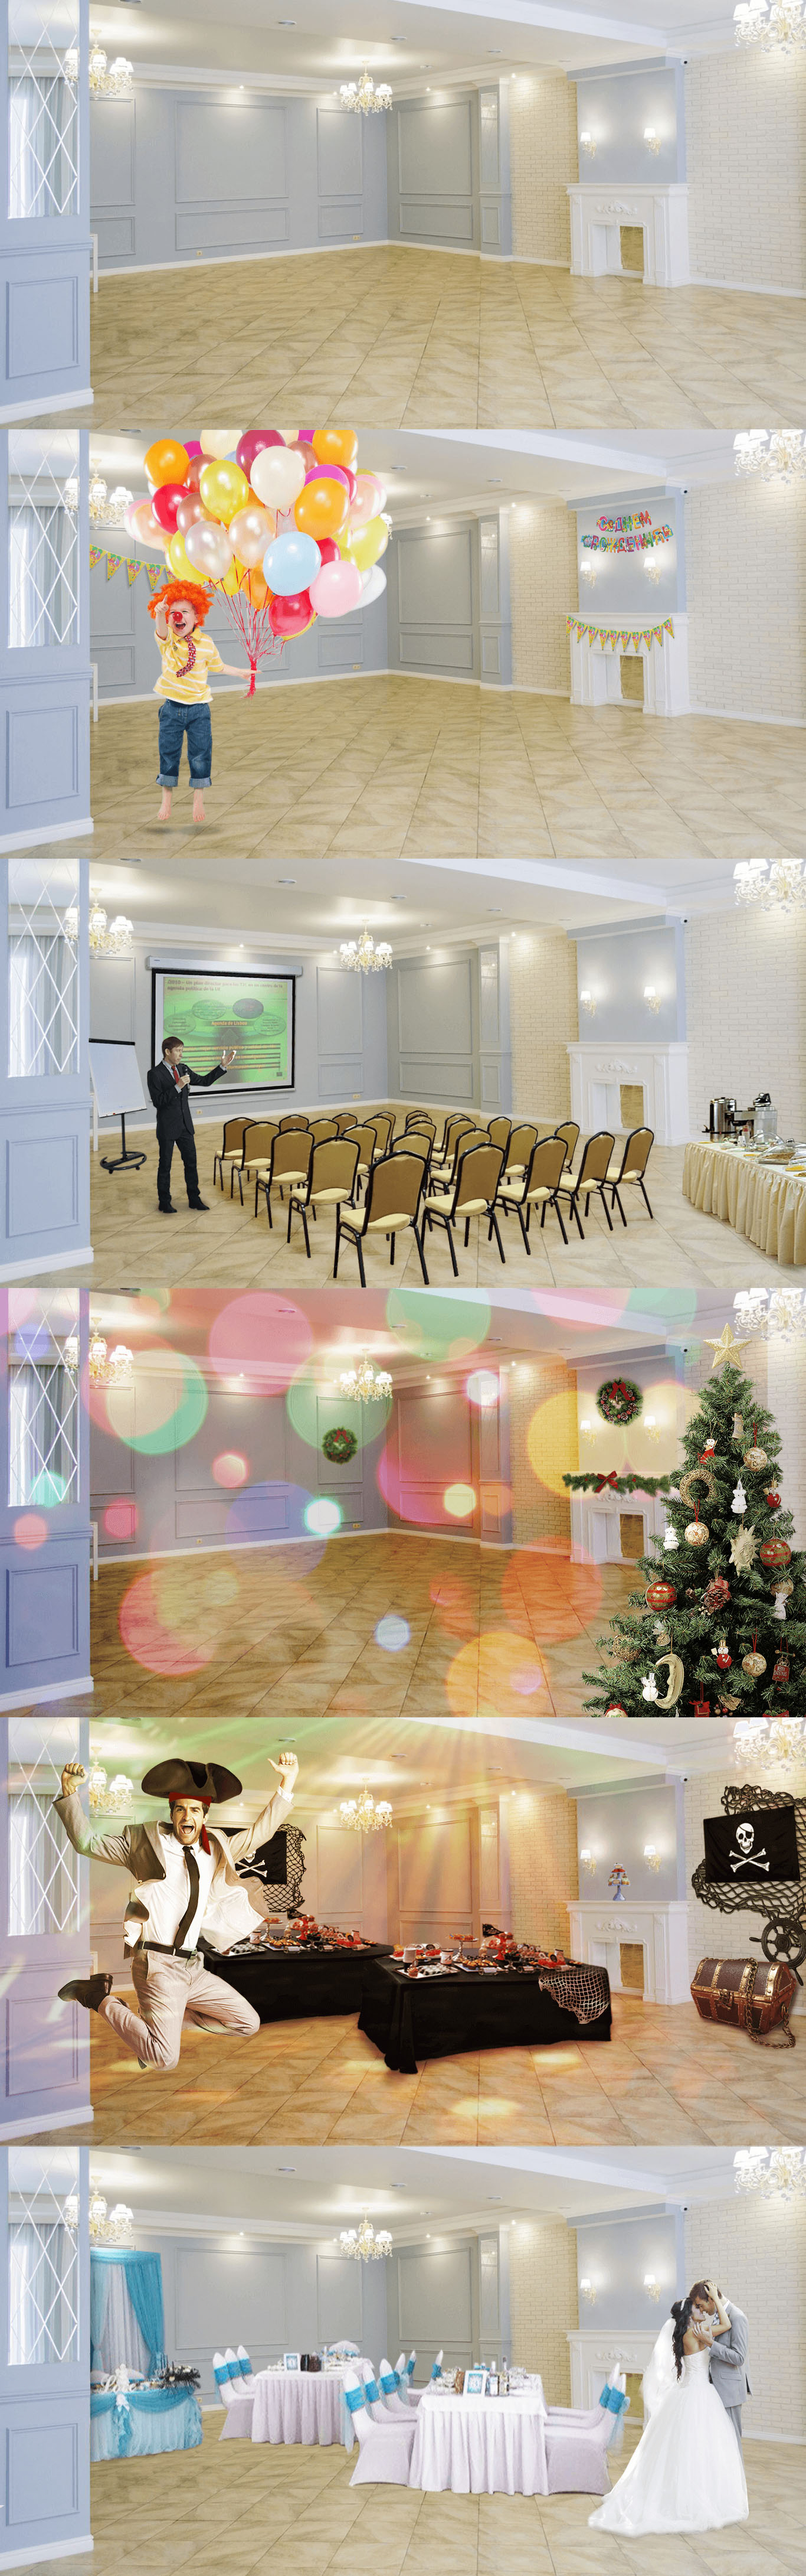
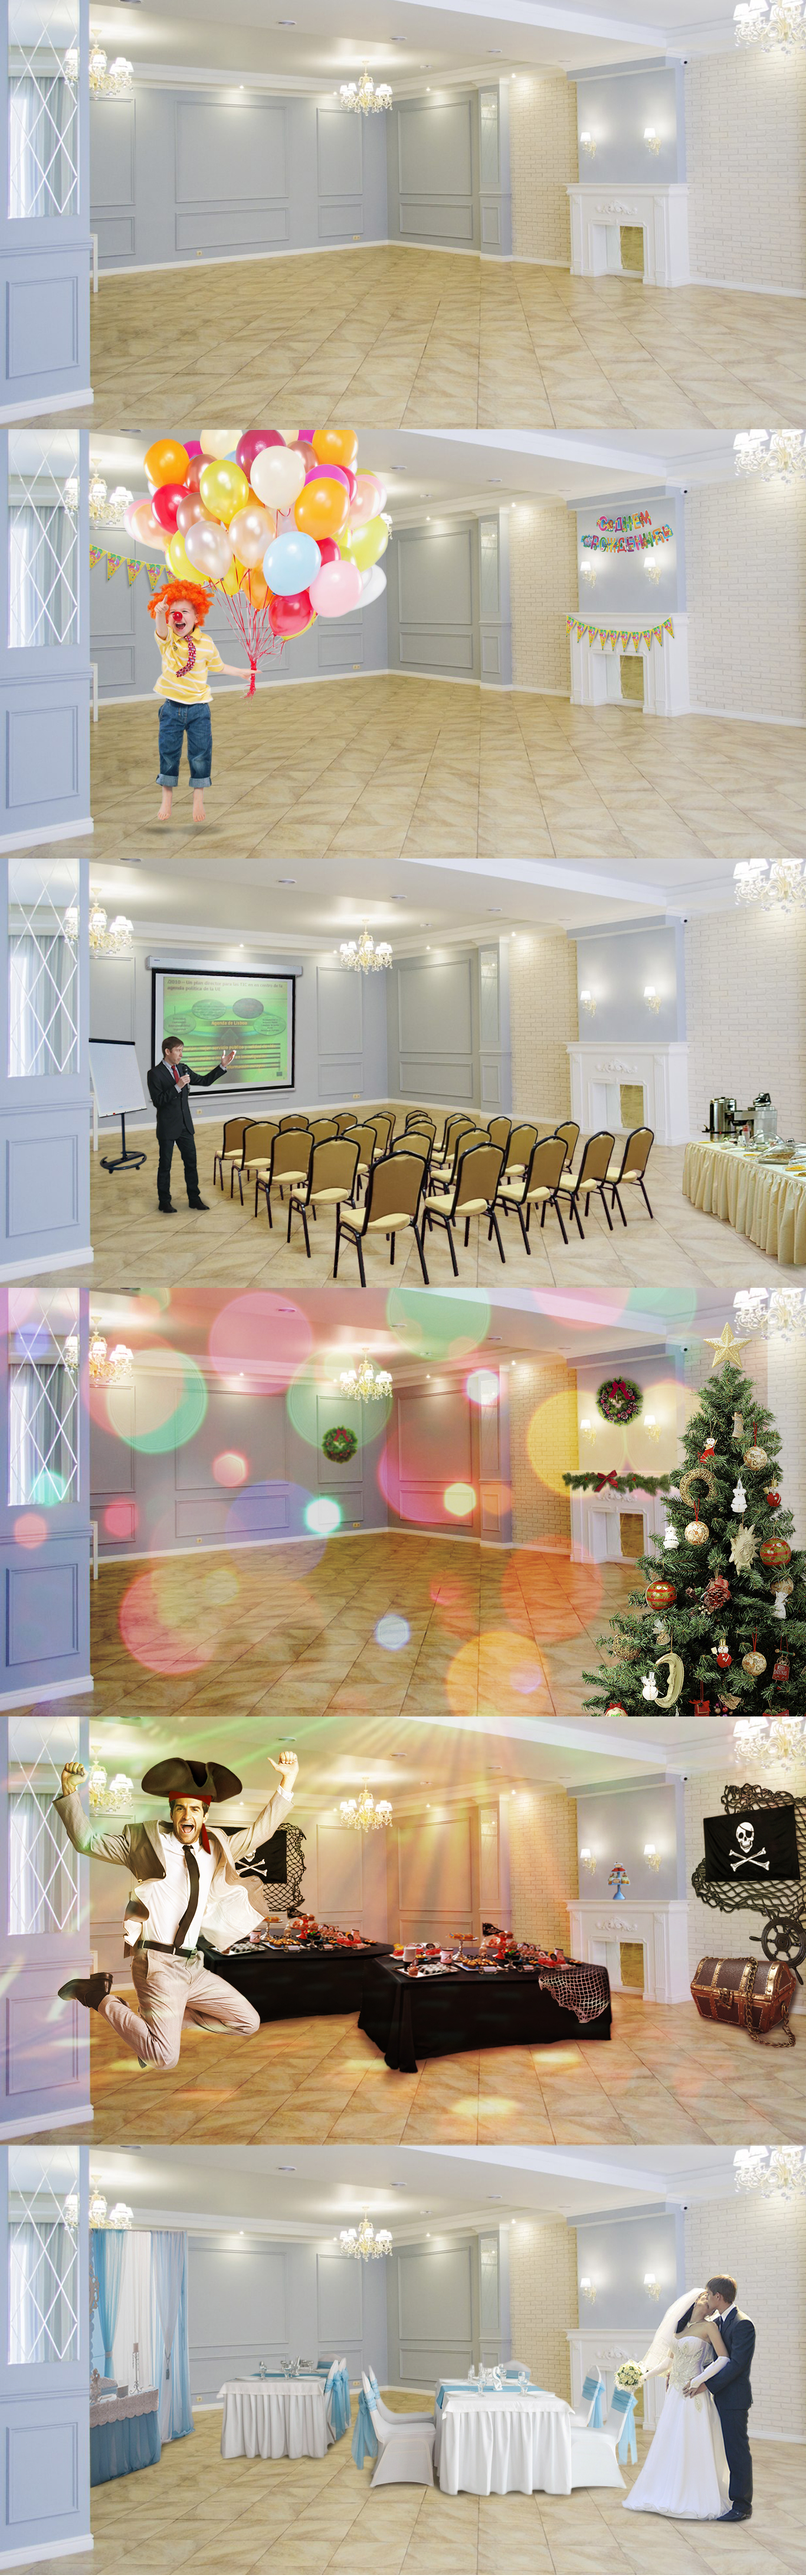
Change image for hall.

diff --git a/css/style.css b/css/style.css
@@ -618,15 +618,15 @@ header {
   height: 620px;
   background: url("../images/bg-hall.jpg") center 0; }
   .section-9[data-bg="_birthday"] {
-    background-position: center 727px; }
+    background-position: center 3634px; }
   .section-9[data-bg="_business"] {
+    background-position: center 2907px; }
+  .section-9[data-bg="_wedding"] {
+    background-position: center 727px; }
+  .section-9[data-bg="_party"] {
     background-position: center 1454px; }
   .section-9[data-bg="_new-year"] {
     background-position: center 2181px; }
-  .section-9[data-bg="_party"] {
-    background-position: center 2908px; }
-  .section-9[data-bg="_wedding"] {
-    background-position: center 3635px; }
 
 .section-9-list {
   position: relative;

diff --git a/scss/style.scss b/scss/style.scss
@@ -738,11 +738,11 @@ header {
   height: 620px;
   background: url('../images/bg-hall.jpg') center 0;
 
-  &[data-bg="_birthday"] { background-position: center 727px;}
-  &[data-bg="_business"] { background-position: center 1454px; }
+  &[data-bg="_birthday"] { background-position: center 3634px;}
+  &[data-bg="_business"] { background-position: center 2907px; }
+  &[data-bg="_wedding"] { background-position: center 727px; }
+  &[data-bg="_party"] { background-position: center 1454px; }
   &[data-bg="_new-year"] { background-position: center 2181px; }
-  &[data-bg="_party"] { background-position: center 2908px; }
-  &[data-bg="_wedding"] { background-position: center 3635px; }
 }
 
 .section-9-list {
